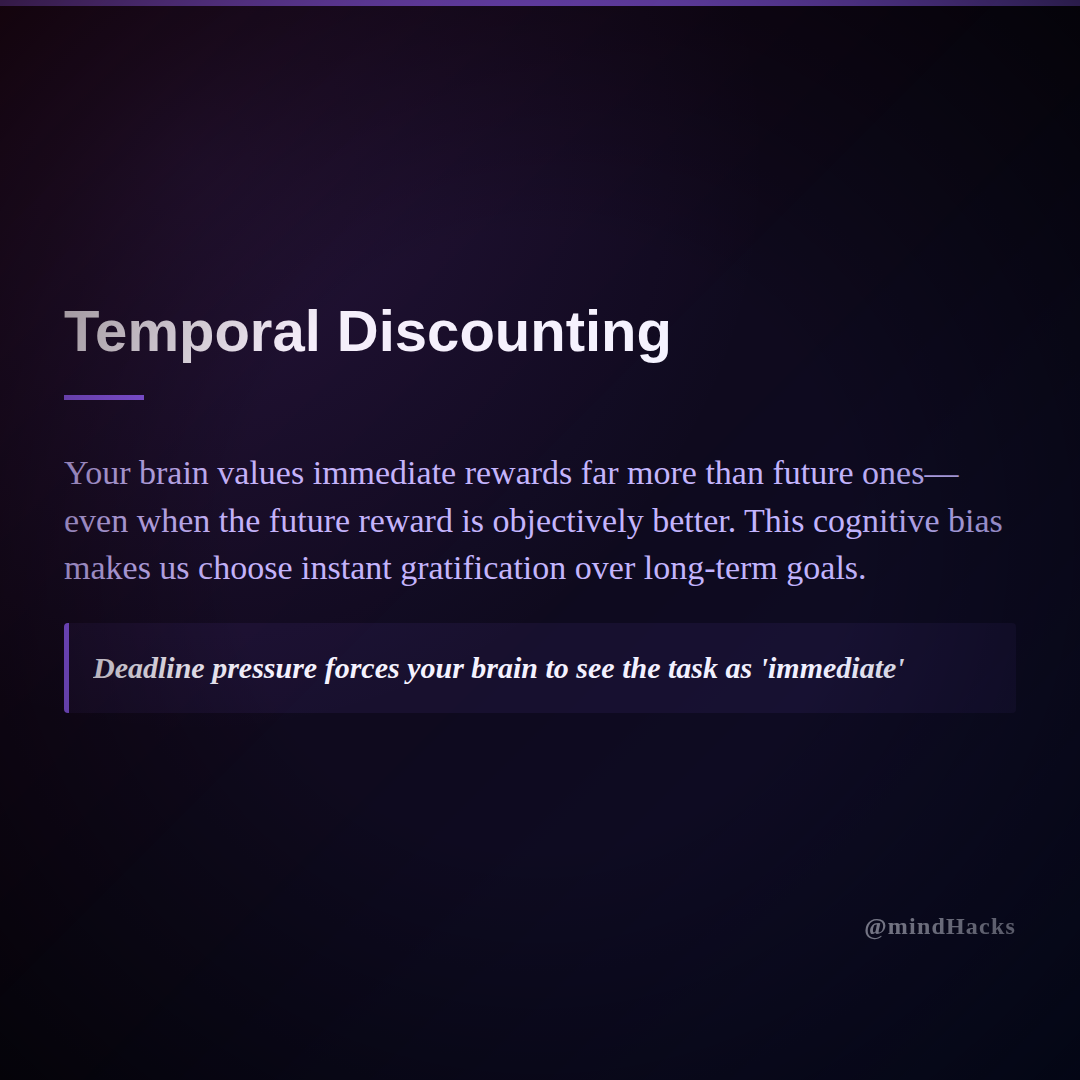
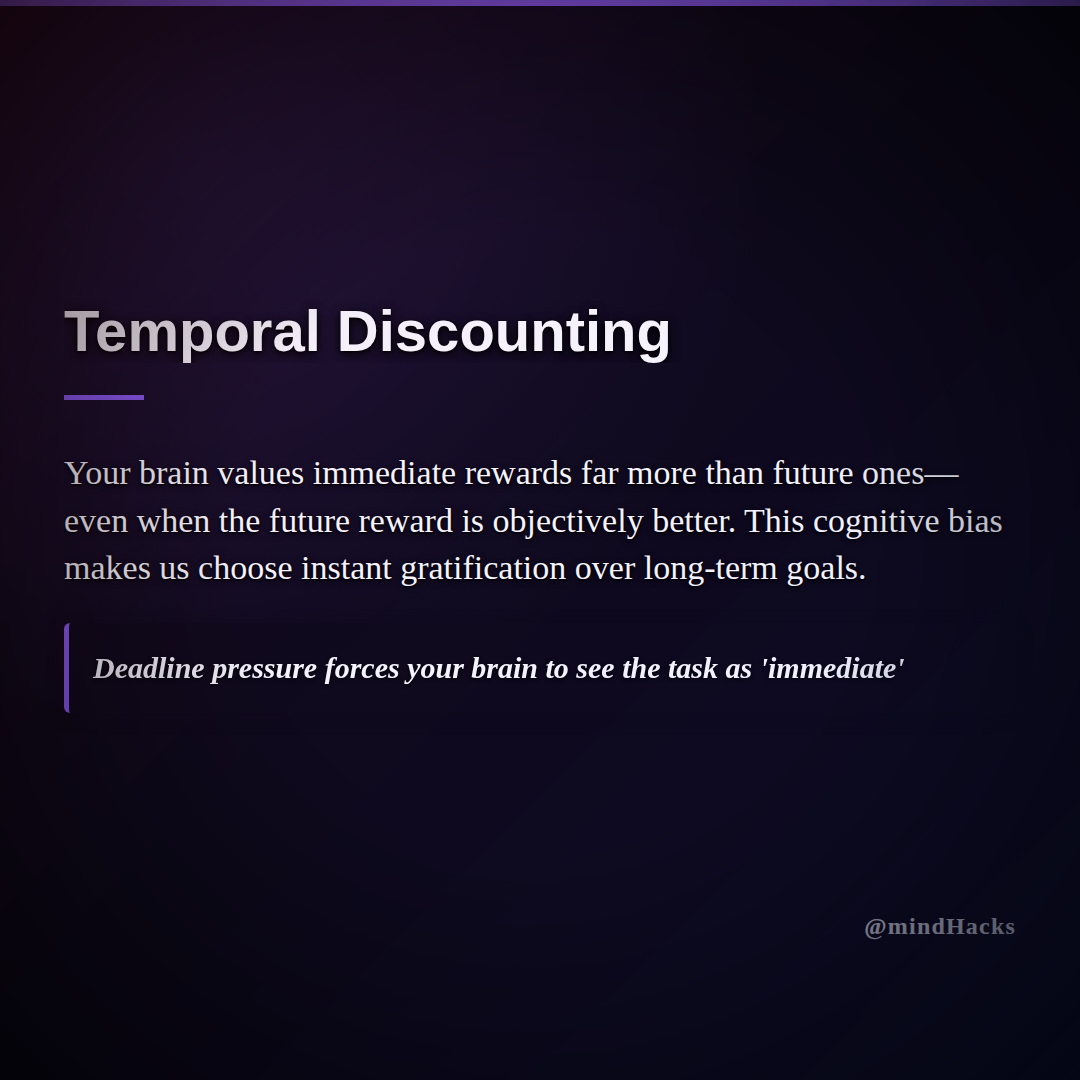
İlkin feedback: stronger bg + readable text + punchier motion
All 4 tweaks implemented:

1. Background daha güclü: 0.65-0.8 opacity, less filtering (saturate 0.85)
2. Text readability: strong shadows, dark plate behind headline, edge vignette
3. Better thematic images: updated Unsplash URLs (neurons, manuscripts, courthouse, desk, circuits)
4. Punchier motion: 0.5s settle, headline scale 1.04→1, badge snap, Ken Burns 1.08

ContentGeneric: 0.35 bg opacity + text shadows + edge vignette

All 20 proof frames re-rendered with distinct MD5s (1.2-1.4MB = rich backgrounds).

diff --git a/src/templates/HookA.tsx b/src/templates/HookA.tsx
@@ -20,58 +20,69 @@ export default function HookA({
     const headline = data.headline || 'Breaking News';
     const subheadline = data.subheadline || '';
 
-    // Niche-specific default background images
+    // Niche-specific default background images (stronger thematic matches)
+    // TODO: Replace with staticFile('backgrounds/{niche}.jpg') for stable bundled renders
     const nicheBackgrounds: Record<string, string> = {
-        'psychology-micro': 'https://images.unsplash.com/photo-1559757148-5c350d0d3c56?w=1080&q=80', // Brain/mind abstract
-        'history-flash': 'https://images.unsplash.com/photo-1461360370896-922624d12aa1?w=1080&q=80', // Ancient books/library
-        'legal-rights-az': 'https://images.unsplash.com/photo-1589829545856-d10d557cf95f?w=1080&q=80', // Justice/law books
-        'study-hacks': 'https://images.unsplash.com/photo-1456513080510-7bf3a84b82f8?w=1080&q=80', // Study desk/notes
-        'ai-tools-daily': 'https://images.unsplash.com/photo-1677442136019-21780ecad995?w=1080&q=80', // AI/tech abstract
+        'psychology-micro': 'https://images.unsplash.com/photo-1617791160505-6f00504e3519?w=1080&q=85', // Neurons/brain abstract (not creepy)
+        'history-flash': 'https://images.unsplash.com/photo-1524995997946-a1c2e315a42f?w=1080&q=85', // Ancient manuscripts/archive
+        'legal-rights-az': 'https://images.unsplash.com/photo-1589391886645-d51941baf7fb?w=1080&q=85', // Courthouse/scales abstract
+        'study-hacks': 'https://images.unsplash.com/photo-1434030216411-0b793f4b4173?w=1080&q=85', // Study desk/notes/highlighter
+        'ai-tools-daily': 'https://images.unsplash.com/photo-1635070041078-e363dbe005cb?w=1080&q=85', // Circuit board/AI glow
     };
 
     const backgroundImage = data.imageUrl || nicheBackgrounds[niche] || nicheBackgrounds['psychology-micro'];
 
-    // Faster, punchier motion for hook retention (<1s to full visibility)
-    const hookDuration = tokens.motion.hookDuration;
+    // PUNCHIER motion: faster settle (0.4-0.5s = ~12-15 frames @ 30fps)
+    const punchyDuration = 15; // ~0.5s
     
-    const imgScale = interpolate(frame, [0, hookDuration * 1.5], [1.05, 1], {
+    // Ken Burns: more present zoom
+    const imgScale = interpolate(frame, [0, punchyDuration * 1.8], [1.08, 1], {
         extrapolateRight: 'clamp',
     });
-    // More visible backgrounds: 0.45-0.6 opacity range
-    const imgOpacity = interpolate(frame, [0, hookDuration], [0.45, 0.6], {
-        extrapolateRight: 'clamp',
-    });
-
-    // Badge: instant at frame 0, subtle motion
-    const badgeY = interpolate(frame, [0, hookDuration * 0.8], [-6, 0], {
-        extrapolateLeft: 'clamp',
-        extrapolateRight: 'clamp',
-    });
-    const badgeOpacity = interpolate(frame, [0, hookDuration * 0.5], [0.7, 1], {
-        extrapolateLeft: 'clamp',
+    
+    // STRONGER backgrounds: 0.65-0.8 opacity (clearly readable as scene)
+    const imgOpacity = interpolate(frame, [0, punchyDuration * 0.8], [0.65, 0.8], {
         extrapolateRight: 'clamp',
     });
 
-    // Headline: readable immediately, gentle settle
-    const headlineY = interpolate(frame, [0, hookDuration], [8, 0], {
+    // Badge: SNAP entrance (faster, snappier)
+    const badgeY = interpolate(frame, [0, punchyDuration * 0.5], [-4, 0], {
         extrapolateLeft: 'clamp',
         extrapolateRight: 'clamp',
     });
-    const headlineOpacity = interpolate(frame, [0, hookDuration * 0.7], [0.75, 1], {
+    const badgeOpacity = interpolate(frame, [0, punchyDuration * 0.4], [0.85, 1], {
+        extrapolateLeft: 'clamp',
+        extrapolateRight: 'clamp',
+    });
+    const badgeScale = interpolate(frame, [0, punchyDuration * 0.5], [0.96, 1], {
         extrapolateLeft: 'clamp',
         extrapolateRight: 'clamp',
     });
 
-    const subY = interpolate(frame, [0, hookDuration * 1.2], [6, 0], {
+    // Headline: PUNCHY scale entrance (1.04 → 1)
+    const headlineY = interpolate(frame, [0, punchyDuration], [6, 0], {
         extrapolateLeft: 'clamp',
         extrapolateRight: 'clamp',
     });
-    const subOpacity = interpolate(frame, [0, hookDuration], [0.6, 1], {
+    const headlineOpacity = interpolate(frame, [0, punchyDuration * 0.6], [0.85, 1], {
+        extrapolateLeft: 'clamp',
+        extrapolateRight: 'clamp',
+    });
+    const headlineScale = interpolate(frame, [0, punchyDuration], [1.04, 1], {
         extrapolateLeft: 'clamp',
         extrapolateRight: 'clamp',
     });
 
-    const brandOpacity = interpolate(frame, [0, hookDuration * 1.5], [0.5, 0.8], {
+    const subY = interpolate(frame, [0, punchyDuration * 1.2], [4, 0], {
+        extrapolateLeft: 'clamp',
+        extrapolateRight: 'clamp',
+    });
+    const subOpacity = interpolate(frame, [0, punchyDuration * 0.8], [0.75, 1], {
+        extrapolateLeft: 'clamp',
+        extrapolateRight: 'clamp',
+    });
+
+    const brandOpacity = interpolate(frame, [0, punchyDuration * 1.5], [0.65, 0.9], {
         extrapolateLeft: 'clamp',
         extrapolateRight: 'clamp',
     });
@@ -90,7 +101,7 @@ export default function HookA({
                 overflow: 'hidden',
             }}
         >
-            {/* Background image with niche default */}
+            {/* Background image: STRONGER presence (clearly readable scene) */}
             <Img
                 src={backgroundImage}
                 style={{
@@ -99,18 +110,21 @@ export default function HookA({
                     width: '100%',
                     height: '100%',
                     objectFit: 'cover',
-                    filter: `saturate(0.7) brightness(0.7)`, // Light desaturate, darker for contrast
+                    filter: `saturate(0.85) brightness(0.75)`, // Less filtering = more readable bg
                     transform: `scale(${imgScale})`,
                     opacity: imgOpacity,
                 }}
             />
 
-            {/* Niche-tinted overlay for color wash + strong scrim for text readability */}
+            {/* Niche-tinted overlay + edge vignette for text contrast WITHOUT crushing image */}
             <div
                 style={{
                     position: 'absolute',
                     inset: 0,
-                    background: `linear-gradient(to bottom, ${tokens.colors.primary}15 0%, ${tokens.colors.background}dd 70%)`,
+                    background: `
+                        radial-gradient(ellipse at center, transparent 20%, ${tokens.colors.background}88 85%),
+                        linear-gradient(to bottom, ${tokens.colors.primary}12 0%, ${tokens.colors.background}cc 75%)
+                    `,
                     zIndex: 10,
                 }}
             />
@@ -129,7 +143,7 @@ export default function HookA({
                     maxWidth: 1080 - tokens.safeZones.sides * 2,
                 }}
             >
-                {/* Category badge - niche-specific color */}
+                {/* Category badge - SNAP animation */}
                 <div
                     style={{
                         paddingLeft: tokens.spacing.md,
@@ -140,18 +154,19 @@ export default function HookA({
                         borderWidth: 3,
                         borderStyle: 'solid',
                         borderColor: tokens.colors.primary,
-                        backgroundColor: tokens.colors.surface,
+                        backgroundColor: `${tokens.colors.background}e6`,
                         color: tokens.colors.primary,
-                        transform: `translateY(${badgeY}px)`,
+                        transform: `translateY(${badgeY}px) scale(${badgeScale})`,
                         opacity: badgeOpacity,
-                        borderRadius: 4,
+                        borderRadius: 6,
+                        boxShadow: `0 4px 16px ${tokens.colors.primary}40`,
                     }}
                 >
                     <h2
                         style={{
                             fontSize: tokens.typography.captionSize,
-                            fontWeight: tokens.typography.weight.bold,
-                            letterSpacing: '0.1em',
+                            fontWeight: tokens.typography.weight.black,
+                            letterSpacing: '0.12em',
                             textTransform: 'uppercase',
                             margin: 0,
                         }}
@@ -160,35 +175,55 @@ export default function HookA({
                     </h2>
                 </div>
 
-                {/* Headline - large, instantly readable */}
-                <h1
+                {/* Headline - STRONG text shadows + soft dark plate for readability */}
+                <div
                     style={{
-                        fontSize: tokens.typography.hookSize,
-                        fontWeight: tokens.typography.weight.black,
-                        color: tokens.colors.text,
-                        lineHeight: tokens.typography.lineHeight.tight,
-                        letterSpacing: '-0.02em',
+                        position: 'relative',
                         marginBottom: tokens.spacing.lg,
-                        fontFamily: "'Montserrat', sans-serif",
-                        transform: `translateY(${headlineY}px)`,
-                        opacity: headlineOpacity,
-                        textShadow: '0 2px 12px rgba(0,0,0,0.4)',
-                        ...lineClamp(2),
+                        padding: `${tokens.spacing.md}px ${tokens.spacing.lg}px`,
+                        background: `linear-gradient(135deg, ${tokens.colors.background}95 0%, ${tokens.colors.background}85 100%)`,
+                        backdropFilter: 'blur(8px)',
+                        borderRadius: 12,
+                        boxShadow: `0 8px 32px ${tokens.colors.background}80`,
                     }}
                 >
-                    {headline}
-                </h1>
+                    <h1
+                        style={{
+                            fontSize: tokens.typography.hookSize,
+                            fontWeight: tokens.typography.weight.black,
+                            color: tokens.colors.text,
+                            lineHeight: tokens.typography.lineHeight.tight,
+                            letterSpacing: '-0.02em',
+                            margin: 0,
+                            fontFamily: "'Montserrat', sans-serif",
+                            transform: `translateY(${headlineY}px) scale(${headlineScale})`,
+                            opacity: headlineOpacity,
+                            textShadow: `
+                                0 2px 8px rgba(0,0,0,0.8),
+                                0 4px 16px rgba(0,0,0,0.6),
+                                0 1px 2px rgba(0,0,0,0.9)
+                            `,
+                            ...lineClamp(2),
+                        }}
+                    >
+                        {headline}
+                    </h1>
+                </div>
 
-                {/* Subheadline - supporting context */}
+                {/* Subheadline - readable with text shadows */}
                 <p
                     style={{
                         fontSize: tokens.typography.bodySize,
-                        color: tokens.colors.textSecondary,
+                        color: tokens.colors.text,
                         fontWeight: tokens.typography.weight.semibold,
                         lineHeight: tokens.typography.lineHeight.normal,
                         margin: 0,
                         transform: `translateY(${subY}px)`,
                         opacity: subOpacity,
+                        textShadow: `
+                            0 2px 8px rgba(0,0,0,0.9),
+                            0 1px 3px rgba(0,0,0,1)
+                        `,
                         ...lineClamp(3),
                     }}
                 >

diff --git a/src/templates/ContentGeneric.tsx b/src/templates/ContentGeneric.tsx
@@ -76,7 +76,7 @@ export default function ContentGeneric({
                 overflow: 'hidden',
             }}
         >
-            {/* Optional subtle background texture for body content */}
+            {/* Optional background image: stronger presence for mid-slides */}
             {hasBackgroundImage && (
                 <>
                     <div
@@ -86,8 +86,20 @@ export default function ContentGeneric({
                             backgroundImage: `url(${data.backgroundImage})`,
                             backgroundSize: 'cover',
                             backgroundPosition: 'center',
-                            opacity: 0.12,
-                            filter: 'grayscale(60%) blur(2px)',
+                            opacity: 0.35,
+                            filter: 'saturate(0.8) brightness(0.7) blur(1.5px)',
+                        }}
+                    />
+                    {/* Edge vignette + niche tint for readability */}
+                    <div
+                        style={{
+                            position: 'absolute',
+                            inset: 0,
+                            background: `
+                                radial-gradient(ellipse at center, transparent 30%, ${tokens.colors.background}90 90%),
+                                linear-gradient(to bottom, ${tokens.colors.primary}10 0%, ${tokens.colors.background}e5 70%)
+                            `,
+                            zIndex: 5,
                         }}
                     />
                 </>
@@ -120,7 +132,7 @@ export default function ContentGeneric({
                     paddingRight: tokens.safeZones.sides,
                 }}
             >
-                {/* Title */}
+                {/* Title with stronger text shadow for readability */}
                 <h2
                     style={{
                         fontSize: tokens.typography.titleSize,
@@ -132,6 +144,11 @@ export default function ContentGeneric({
                         transform: `translateY(${titleY}px)`,
                         opacity: titleOpacity,
                         marginTop: 0,
+                        textShadow: `
+                            0 2px 8px rgba(0,0,0,0.7),
+                            0 4px 12px rgba(0,0,0,0.5),
+                            0 1px 2px rgba(0,0,0,0.9)
+                        `,
                         display: '-webkit-box',
                         WebkitLineClamp: 2,
                         WebkitBoxOrient: 'vertical',
@@ -153,16 +170,17 @@ export default function ContentGeneric({
                     }}
                 />
 
-                {/* Body */}
+                {/* Body with text shadow for readability */}
                 <p
                     style={{
                         fontSize: tokens.typography.bodySize - 2,
-                        color: tokens.colors.textSecondary,
+                        color: tokens.colors.text,
                         lineHeight: tokens.typography.lineHeight.normal,
                         fontWeight: tokens.typography.weight.medium,
                         margin: 0,
                         transform: `translateY(${bodyY}px)`,
                         opacity: bodyOpacity,
+                        textShadow: `0 2px 6px rgba(0,0,0,0.8), 0 1px 2px rgba(0,0,0,1)`,
                         display: '-webkit-box',
                         WebkitLineClamp: 6,
                         WebkitBoxOrient: 'vertical',
@@ -172,18 +190,20 @@ export default function ContentGeneric({
                     {body}
                 </p>
 
-                {/* Highlight callout */}
+                {/* Highlight callout with stronger styling */}
                 {highlight && (
                     <div
                         style={{
                             marginTop: tokens.spacing.lg,
                             padding: tokens.spacing.md,
                             borderLeft: `5px solid ${tokens.colors.primary}`,
-                            backgroundColor: tokens.colors.surface,
-                            borderRadius: 4,
+                            backgroundColor: `${tokens.colors.background}dd`,
+                            backdropFilter: 'blur(4px)',
+                            borderRadius: 6,
                             transform: `translateX(${highlightX}px)`,
                             opacity: highlightOpacity,
                             overflow: 'hidden',
+                            boxShadow: `0 4px 16px ${tokens.colors.background}60`,
                         }}
                     >
                         <p
@@ -194,6 +214,7 @@ export default function ContentGeneric({
                                 color: tokens.colors.text,
                                 margin: 0,
                                 lineHeight: tokens.typography.lineHeight.normal,
+                                textShadow: `0 1px 4px rgba(0,0,0,0.8)`,
                                 display: '-webkit-box',
                                 WebkitLineClamp: 3,
                                 WebkitBoxOrient: 'vertical',
